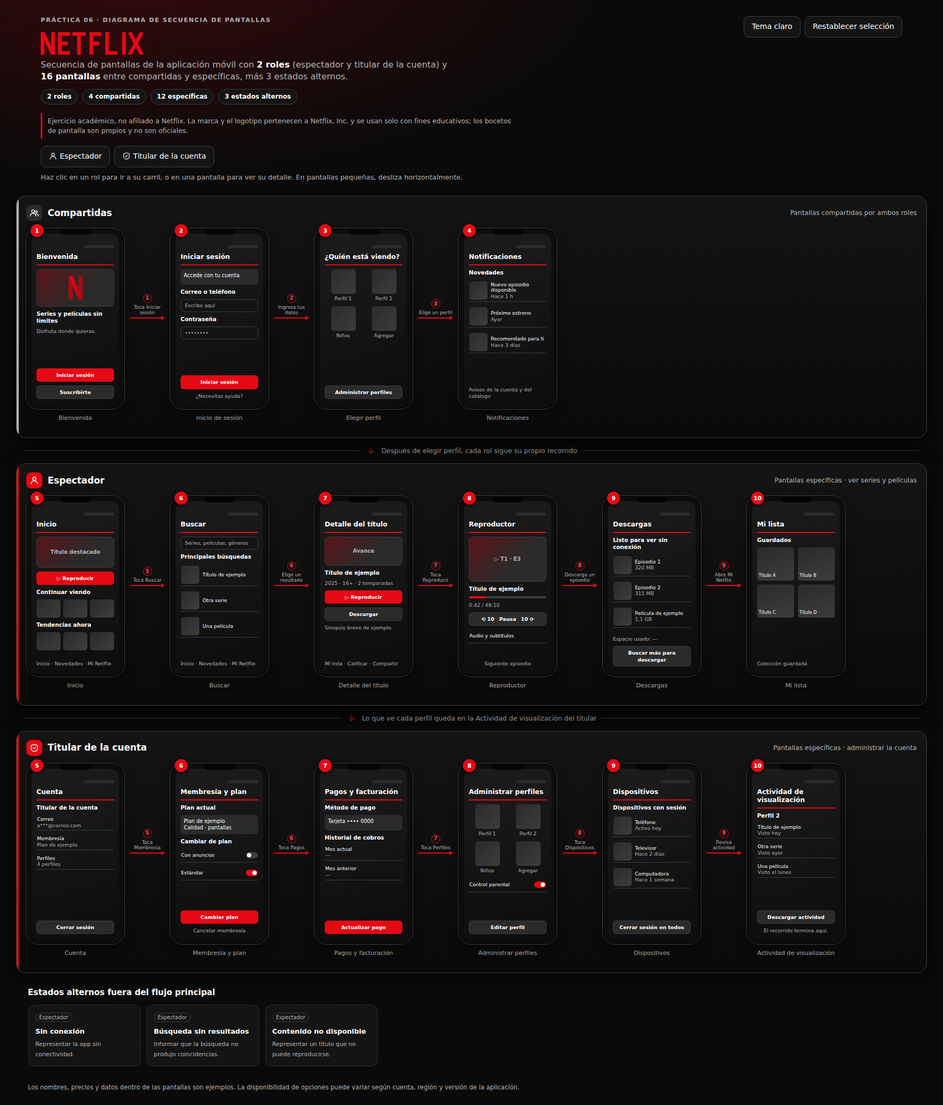
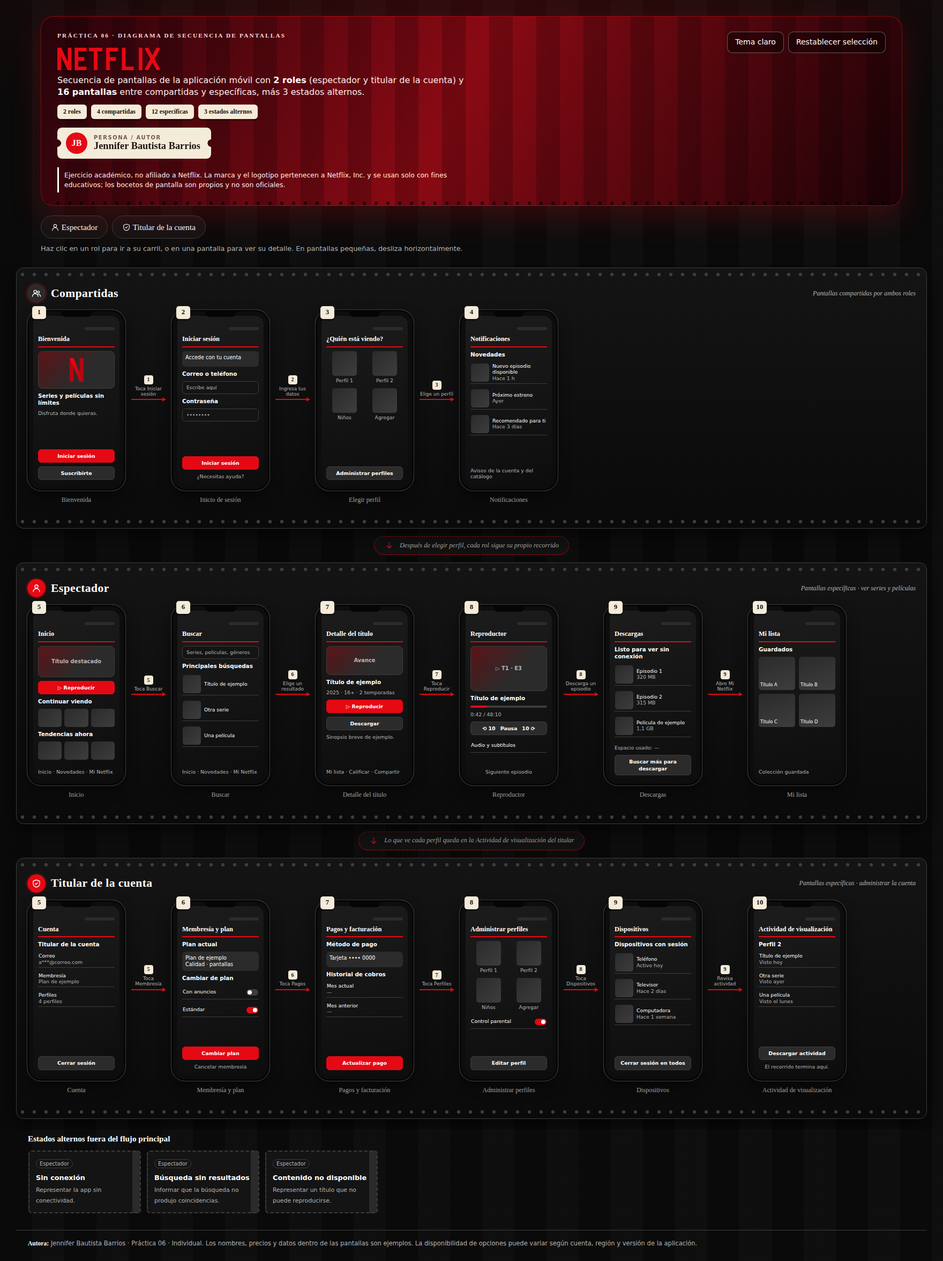
Arreglo de el readme de la practica06

diff --git a/Practica06/netflix-secuencia-pantallas.html b/Practica06/netflix-secuencia-pantallas.html
@@ -47,12 +47,41 @@ button{font:inherit;color:inherit;cursor:pointer;user-select:none}button:focus-v
 .lane.arrived{animation:arr 1s ease-out}@keyframes arr{0%{outline:3px solid var(--accent);box-shadow:0 0 0 8px #E5091433}100%{outline:1px solid transparent}}
 @media(max-width:700px){.head{display:block}.tools{margin-top:13px}.canvas{padding:8px 12px}.panel{height:min(82%,700px);width:100%;border-radius:17px 17px 0 0}.wordmark{height:32px}}
 @media(prefers-reduced-motion:reduce){*,*:before,*:after{scroll-behavior:auto!important;transition:none!important;animation:none!important}}
+
+/* ===== Diseño "cine": cortina, tira de película y boletos ===== */
+:root{--ticket:#F4EBD9;--ticket-ink:#1b1410;--serif:Georgia,"Times New Roman",serif}
+body{background:radial-gradient(1100px 520px at 50% -120px,#E5091433,transparent),repeating-linear-gradient(90deg,#0000 0 60px,#ffffff05 60px 120px),var(--bg)}
+body.light{background:radial-gradient(1100px 520px at 50% -120px,#E5091426,transparent),var(--bg)}
+.hero-head{position:relative;padding:28px 30px 24px;border-radius:24px;overflow:hidden;color:#fff;border:1px solid #E5091488;box-shadow:0 22px 60px #E5091433;
+background:repeating-linear-gradient(90deg,#0000 0 44px,#00000030 44px 88px),linear-gradient(115deg,#26030a,#8a0a14 48%,#1b0307)}
+.hero-head:after{content:"";position:absolute;left:0;right:0;bottom:0;height:8px;background:radial-gradient(circle at 9px 4px,#0009 0 3px,transparent 3.5px) 0 0/22px 8px repeat-x}
+.hero-head .eyebrow{color:#ffd9dc;font-family:var(--serif);letter-spacing:.2em}.hero-head .sub{color:#ffe9ea}.hero-head .sub b{color:#fff}
+.hero-head .chips span{background:var(--ticket);color:var(--ticket-ink);border:0;border-radius:6px;font-family:var(--serif);box-shadow:0 3px 0 #0005}
+.hero-head .tool{background:#00000066;border-color:#ffffff55;color:#fff}.hero-head .tool:hover{background:#000}
+.hero-head .academic{color:#ffe9ea;border-left-color:#fff;max-width:760px}.wordmark{filter:drop-shadow(0 4px 0 #0006)}
+.author{margin-top:16px;display:inline-flex;align-items:center;gap:12px;background:var(--ticket);color:var(--ticket-ink);padding:9px 20px 9px 10px;border-radius:8px;box-shadow:0 4px 0 #0006;position:relative;
+-webkit-mask:radial-gradient(circle 7px at 0 50%,#0000 98%,#000) left/51% 100% no-repeat,radial-gradient(circle 7px at 100% 50%,#0000 98%,#000) right/51% 100% no-repeat;mask:radial-gradient(circle 7px at 0 50%,#0000 98%,#000) left/51% 100% no-repeat,radial-gradient(circle 7px at 100% 50%,#0000 98%,#000) right/51% 100% no-repeat}
+.author .av{width:40px;height:40px;border-radius:50%;background:var(--accent);color:#fff;display:grid;place-items:center;font:700 1rem var(--serif);margin-left:6px}
+.author .who{display:flex;flex-direction:column;line-height:1.15}.author small{font-size:.62rem;letter-spacing:.16em;text-transform:uppercase;color:#6b5b4b;font-weight:700}.author b{font:700 1.15rem var(--serif)}
+.roles{margin-top:18px}.rolebtn{border-radius:99px;font-family:var(--serif);font-size:.95rem;padding:10px 18px}
+.lane{padding:30px 20px 32px;border-radius:14px;background:
+radial-gradient(circle,var(--line) 0 3px,transparent 3.5px) 0 7px/22px 10px repeat-x,
+radial-gradient(circle,var(--line) 0 3px,transparent 3.5px) 0 calc(100% - 7px)/22px 10px repeat-x,
+linear-gradient(180deg,var(--paper),var(--bg))}
+.lane:before{display:none}.lanehead h2{font:700 1.35rem var(--serif);letter-spacing:.02em}.badge{border-radius:50%;width:34px;height:34px;box-shadow:0 0 0 3px var(--glow)}
+.hint{font-family:var(--serif);font-style:italic}.phone{border-width:3px;border-radius:26px;box-shadow:0 10px 24px #0007,0 0 0 1px var(--line)}
+.step{border-radius:5px;width:auto;min-width:26px;padding:0 6px;background:var(--ticket);color:var(--ticket-ink);font-family:var(--serif);font-size:.8rem;box-shadow:0 3px 0 #0006}
+.arrow b{border-radius:4px;border:0;background:var(--ticket);color:var(--ticket-ink);font-family:var(--serif)}
+.caption{font-family:var(--serif);font-size:.76rem}.appbar{font-family:var(--serif)}
+.cross{margin:2px auto;padding:7px 18px;border:1px dashed var(--accent);border-radius:99px;max-width:max-content;background:var(--paper);font-family:var(--serif);font-style:italic}.cross:before,.cross:after{display:none}
+.alternates h2,.panel h2{font-family:var(--serif)}.alt{border-radius:6px;border:2px dashed var(--line);background:linear-gradient(90deg,var(--paper) 0 calc(100% - 14px),var(--fill) 0)}
+.foot{border-top:1px solid var(--line);padding-top:16px}.foot b{color:var(--ink);font-family:var(--serif)}
 </style></head><body>
 <svg width="0" height="0" style="position:absolute" aria-hidden="true"><defs><linearGradient id="g1" x1="0" y1="0" x2="0" y2="1"><stop offset="0" stop-color="#E50914"/><stop offset="1" stop-color="#B20710"/></linearGradient><symbol id="nicon" viewBox="0 0 28 48"><path d="M0 0h8v48H0z" fill="#B20710"/><path d="M20 0h8v48h-8z" fill="#B20710"/><path d="M0 0h8l20 48h-8z" fill="url(#g1)"/></symbol></defs></svg>
 <header class="top"><div class="hero-head"><div class="head"><div><div class="eyebrow">Práctica 06 · Diagrama de secuencia de pantallas</div>
 <h1 class="titleline"><svg class="wordmark" viewBox="0 0 190 40" role="img" aria-label="Netflix"><g fill="none" stroke="#E50914" stroke-width="6.5"><path d="M3.25 40V0M3.25 0L22 40M22 40V0" transform="translate(0 0)" /><path d="M52 3.25H34V36.75H52M34 20H48"/><path d="M56 3.25H80M68 3.25V40"/><path d="M90 40V3.25H108M90 20H104"/><path d="M118 0V36.75H136"/><path d="M148 0V40"/><path d="M158 0L180 40M180 0L158 40"/></g></svg></h1>
 <p class="sub">Secuencia de pantallas de la aplicación móvil con <b>2 roles</b> (espectador y titular de la cuenta) y <b>16 pantallas</b> entre compartidas y específicas, más 3 estados alternos.</p>
-<div class="chips"><span>2 roles</span><span>4 compartidas</span><span>12 específicas</span><span>3 estados alternos</span></div></div>
+<div class="chips"><span>2 roles</span><span>4 compartidas</span><span>12 específicas</span><span>3 estados alternos</span></div><div class="author"><span class="av" aria-hidden="true">JB</span><span class="who"><small>Persona / Autor</small><b>Jennifer Bautista Barrios</b></span></div></div>
 <div class="tools"><button type="button" class="tool" id="theme" aria-pressed="false">Tema claro</button><button type="button" class="tool" id="reset">Restablecer selección</button></div></div>
 <p class="academic">Ejercicio académico, no afiliado a Netflix. La marca y el logotipo pertenecen a Netflix, Inc. y se usan solo con fines educativos; los bocetos de pantalla son propios y no son oficiales.</p></div>
 <div class="roles" role="group" aria-label="Seleccionar recorrido"><button type="button" class="rolebtn" data-role="viewer" aria-pressed="false"><svg viewBox="0 0 24 24"><circle cx="12" cy="8" r="4"/><path d="M4 21a8 8 0 0 1 16 0"/></svg> Espectador</button><button type="button" class="rolebtn" data-role="owner" aria-pressed="false"><svg viewBox="0 0 24 24"><path d="M12 3l8 3v6c0 5-3.5 8-8 9-4.5-1-8-4-8-9V6z"/><path d="M9 12l2 2 4-4"/></svg> Titular de la cuenta</button></div>
@@ -60,7 +89,7 @@ button{font:inherit;color:inherit;cursor:pointer;user-select:none}button:focus-v
 <div id="role-live" class="sr" aria-live="polite" aria-atomic="true"></div>
 <main class="canvas"><div class="lanes"><section class="lane shared" data-lane="shared" aria-labelledby="shared-h"><div class="lanehead"><span class="badge"><svg viewBox="0 0 24 24"><circle cx="9" cy="8" r="3.5"/><circle cx="17" cy="9" r="2.5"/><path d="M2 20a7 7 0 0 1 14 0M15 15a5 5 0 0 1 7 5"/></svg></span><h2 id="shared-h" tabindex="-1">Compartidas</h2><span class="hint">Pantallas compartidas por ambos roles</span></div><div class="flow"><div class="screen-wrap"><button type="button" class="phone" data-screen="s-welcome" aria-label="Pantalla 1: Bienvenida"><span class="step">1</span><span class="notch"></span><span class="screen"><span class="status"></span><span class="appbar">Bienvenida</span><span class="hero" style="height:70px"><svg class="nlogo" viewBox="0 0 28 48" aria-hidden="true"><use href="#nicon"/></svg></span><span class="label">Series y películas sin límites</span><span class="tiny ">Disfruta donde quieras.</span><span class="spacer"></span><span class="buttonmock primary">Iniciar sesión</span><span class="buttonmock">Suscribirte</span></span></button><p class="caption">Bienvenida</p></div><div class="arrow" aria-hidden="true"><b>1</b><small>Toca Iniciar sesión</small><i></i></div><div class="screen-wrap"><button type="button" class="phone" data-screen="s-login" aria-label="Pantalla 2: Iniciar sesión"><span class="step">2</span><span class="notch"></span><span class="screen"><span class="status"></span><span class="appbar">Iniciar sesión</span><span class="block">Accede con tu cuenta</span><span class="label">Correo o teléfono</span><span class="field">Escribe aquí</span><span class="label">Contraseña</span><span class="field">••••••••</span><span class="spacer"></span><span class="buttonmock primary">Iniciar sesión</span><span class="tiny c">¿Necesitas ayuda?</span></span></button><p class="caption">Inicio de sesión</p></div><div class="arrow" aria-hidden="true"><b>2</b><small>Ingresa tus datos</small><i></i></div><div class="screen-wrap"><button type="button" class="phone" data-screen="s-profiles" aria-label="Pantalla 3: ¿Quién está viendo?"><span class="step">3</span><span class="notch"></span><span class="screen"><span class="status"></span><span class="appbar">¿Quién está viendo?</span><span class="grid2"><span class="pf"><span class="cover square"></span>Perfil 1</span><span class="pf"><span class="cover square"></span>Perfil 2</span><span class="pf"><span class="cover square"></span>Niños</span><span class="pf"><span class="cover square"></span>Agregar</span></span><span class="spacer"></span><span class="buttonmock">Administrar perfiles</span></span></button><p class="caption">Elegir perfil</p></div><div class="arrow" aria-hidden="true"><b>3</b><small>Elige un perfil</small><i></i></div><div class="screen-wrap"><button type="button" class="phone" data-screen="s-notif" aria-label="Pantalla 4: Notificaciones"><span class="step">4</span><span class="notch"></span><span class="screen"><span class="status"></span><span class="appbar">Notificaciones</span><span class="label">Novedades</span><span class="row"><span class="cover"></span><span>Nuevo episodio disponible<br><span class="tiny ">Hace 1 h</span></span></span><span class="row"><span class="cover"></span><span>Próximo estreno<br><span class="tiny ">Ayer</span></span></span><span class="row"><span class="cover"></span><span>Recomendado para ti<br><span class="tiny ">Hace 3 días</span></span></span><span class="spacer"></span><span class="tiny ">Avisos de la cuenta y del catálogo</span></span></button><p class="caption">Notificaciones</p></div></div></section><div class="cross"><svg aria-hidden="true" viewBox="0 0 24 24"><path d="M12 4v13M6 12l6 6 6-6"/></svg><span>Después de elegir perfil, cada rol sigue su propio recorrido</span></div><section class="lane viewer" data-lane="viewer" aria-labelledby="viewer-h"><div class="lanehead"><span class="badge"><svg viewBox="0 0 24 24"><circle cx="12" cy="8" r="4"/><path d="M4 21a8 8 0 0 1 16 0"/></svg></span><h2 id="viewer-h" tabindex="-1">Espectador</h2><span class="hint">Pantallas específicas · ver series y películas</span></div><div class="flow"><div class="screen-wrap"><button type="button" class="phone" data-screen="v-home" aria-label="Pantalla 5: Inicio"><span class="step">5</span><span class="notch"></span><span class="screen"><span class="status"></span><span class="appbar">Inicio</span><span class="hero" style="height:58px">Título destacado</span><span class="buttonmock primary">▷ Reproducir</span><span class="label">Continuar viendo</span><span class="thumbs"><i></i><i></i><i></i></span><span class="label">Tendencias ahora</span><span class="thumbs"><i></i><i></i><i></i></span><span class="spacer"></span><span class="tiny ">Inicio · Novedades · Mi Netflix</span></span></button><p class="caption">Inicio</p></div><div class="arrow" aria-hidden="true"><b>5</b><small>Toca Buscar</small><i></i></div><div class="screen-wrap"><button type="button" class="phone" data-screen="v-search" aria-label="Pantalla 6: Buscar"><span class="step">6</span><span class="notch"></span><span class="screen"><span class="status"></span><span class="appbar">Buscar</span><span class="field">Series, películas, géneros</span><span class="label">Principales búsquedas</span><span class="row"><span class="cover"></span><span>Título de ejemplo</span></span><span class="row"><span class="cover"></span><span>Otra serie</span></span><span class="row"><span class="cover"></span><span>Una película</span></span><span class="spacer"></span><span class="tiny ">Inicio · Novedades · Mi Netflix</span></span></button><p class="caption">Buscar</p></div><div class="arrow" aria-hidden="true"><b>6</b><small>Elige un resultado</small><i></i></div><div class="screen-wrap"><button type="button" class="phone" data-screen="v-detail" aria-label="Pantalla 7: Detalle del título"><span class="step">7</span><span class="notch"></span><span class="screen"><span class="status"></span><span class="appbar">Detalle del título</span><span class="hero" style="height:54px">Avance</span><span class="label">Título de ejemplo</span><span class="tiny ">2025 · 16+ · 2 temporadas</span><span class="buttonmock primary">▷ Reproducir</span><span class="buttonmock">Descargar</span><span class="tiny ">Sinopsis breve de ejemplo.</span><span class="spacer"></span><span class="tiny ">Mi lista · Calificar · Compartir</span></span></button><p class="caption">Detalle del título</p></div><div class="arrow" aria-hidden="true"><b>7</b><small>Toca Reproducir</small><i></i></div><div class="screen-wrap"><button type="button" class="phone" data-screen="v-player" aria-label="Pantalla 8: Reproductor"><span class="step">8</span><span class="notch"></span><span class="screen"><span class="status"></span><span class="appbar">Reproductor</span><span class="hero" style="height:84px">▷ T1 · E3</span><span class="label">Título de ejemplo</span><span class="bar"><i></i></span><span class="tiny ">0:42 / 48:10</span><span class="buttonmock">⟲ 10　Pausa　10 ⟳</span><span class="row"><span>Audio y subtítulos</span></span><span class="spacer"></span><span class="tiny c">Siguiente episodio</span></span></button><p class="caption">Reproductor</p></div><div class="arrow" aria-hidden="true"><b>8</b><small>Descarga un episodio</small><i></i></div><div class="screen-wrap"><button type="button" class="phone" data-screen="v-down" aria-label="Pantalla 9: Descargas"><span class="step">9</span><span class="notch"></span><span class="screen"><span class="status"></span><span class="appbar">Descargas</span><span class="label">Listo para ver sin conexión</span><span class="row"><span class="cover"></span><span>Episodio 1<br><span class="tiny ">320 MB</span></span></span><span class="row"><span class="cover"></span><span>Episodio 2<br><span class="tiny ">315 MB</span></span></span><span class="row"><span class="cover"></span><span>Película de ejemplo<br><span class="tiny ">1,1 GB</span></span></span><span class="spacer"></span><span class="tiny ">Espacio usado: —</span><span class="buttonmock">Buscar más para descargar</span></span></button><p class="caption">Descargas</p></div><div class="arrow" aria-hidden="true"><b>9</b><small>Abre Mi Netflix</small><i></i></div><div class="screen-wrap"><button type="button" class="phone" data-screen="v-list" aria-label="Pantalla 10: Mi lista"><span class="step">10</span><span class="notch"></span><span class="screen"><span class="status"></span><span class="appbar">Mi lista</span><span class="label">Guardados</span><span class="grid2"><span class="poster">Título A</span><span class="poster">Título B</span><span class="poster">Título C</span><span class="poster">Título D</span></span><span class="spacer"></span><span class="tiny ">Colección guardada</span></span></button><p class="caption">Mi lista</p></div></div></section><div class="cross"><svg aria-hidden="true" viewBox="0 0 24 24"><path d="M12 4v13M6 12l6 6 6-6"/></svg><span>Lo que ve cada perfil queda en la Actividad de visualización del titular</span></div><section class="lane owner" data-lane="owner" aria-labelledby="owner-h"><div class="lanehead"><span class="badge"><svg viewBox="0 0 24 24"><path d="M12 3l8 3v6c0 5-3.5 8-8 9-4.5-1-8-4-8-9V6z"/><path d="M9 12l2 2 4-4"/></svg></span><h2 id="owner-h" tabindex="-1">Titular de la cuenta</h2><span class="hint">Pantallas específicas · administrar la cuenta</span></div><div class="flow"><div class="screen-wrap"><button type="button" class="phone" data-screen="o-account" aria-label="Pantalla 5: Cuenta"><span class="step">5</span><span class="notch"></span><span class="screen"><span class="status"></span><span class="appbar">Cuenta</span><span class="label">Titular de la cuenta</span><span class="row"><span>Correo<br><span class="tiny ">a***@correo.com</span></span></span><span class="row"><span>Membresía<br><span class="tiny ">Plan de ejemplo</span></span></span><span class="row"><span>Perfiles<br><span class="tiny ">4 perfiles</span></span></span><span class="spacer"></span><span class="buttonmock">Cerrar sesión</span></span></button><p class="caption">Cuenta</p></div><div class="arrow" aria-hidden="true"><b>5</b><small>Toca Membresía</small><i></i></div><div class="screen-wrap"><button type="button" class="phone" data-screen="o-plan" aria-label="Pantalla 6: Membresía y plan"><span class="step">6</span><span class="notch"></span><span class="screen"><span class="status"></span><span class="appbar">Membresía y plan</span><span class="label">Plan actual</span><span class="block">Plan de ejemplo<br>Calidad · pantallas</span><span class="label">Cambiar de plan</span><span class="row">Con anuncios<span class="spacer"></span><span class="tog"></span></span><span class="row">Estándar<span class="spacer"></span><span class="tog on"></span></span><span class="spacer"></span><span class="buttonmock primary">Cambiar plan</span><span class="tiny c">Cancelar membresía</span></span></button><p class="caption">Membresía y plan</p></div><div class="arrow" aria-hidden="true"><b>6</b><small>Toca Pagos</small><i></i></div><div class="screen-wrap"><button type="button" class="phone" data-screen="o-pay" aria-label="Pantalla 7: Pagos y facturación"><span class="step">7</span><span class="notch"></span><span class="screen"><span class="status"></span><span class="appbar">Pagos y facturación</span><span class="label">Método de pago</span><span class="block">Tarjeta •••• 0000</span><span class="label">Historial de cobros</span><span class="row"><span>Mes actual<br><span class="tiny ">—</span></span></span><span class="row"><span>Mes anterior<br><span class="tiny ">—</span></span></span><span class="spacer"></span><span class="buttonmock primary">Actualizar pago</span></span></button><p class="caption">Pagos y facturación</p></div><div class="arrow" aria-hidden="true"><b>7</b><small>Toca Perfiles</small><i></i></div><div class="screen-wrap"><button type="button" class="phone" data-screen="o-manage" aria-label="Pantalla 8: Administrar perfiles"><span class="step">8</span><span class="notch"></span><span class="screen"><span class="status"></span><span class="appbar">Administrar perfiles</span><span class="grid2"><span class="pf"><span class="cover square"></span>Perfil 1</span><span class="pf"><span class="cover square"></span>Perfil 2</span><span class="pf"><span class="cover square"></span>Niños</span><span class="pf"><span class="cover square"></span>Agregar</span></span><span class="row">Control parental<span class="spacer"></span><span class="tog on"></span></span><span class="spacer"></span><span class="buttonmock">Editar perfil</span></span></button><p class="caption">Administrar perfiles</p></div><div class="arrow" aria-hidden="true"><b>8</b><small>Toca Dispositivos</small><i></i></div><div class="screen-wrap"><button type="button" class="phone" data-screen="o-devices" aria-label="Pantalla 9: Dispositivos"><span class="step">9</span><span class="notch"></span><span class="screen"><span class="status"></span><span class="appbar">Dispositivos</span><span class="label">Dispositivos con sesión</span><span class="row"><span class="cover"></span><span>Teléfono<br><span class="tiny ">Activo hoy</span></span></span><span class="row"><span class="cover"></span><span>Televisor<br><span class="tiny ">Hace 2 días</span></span></span><span class="row"><span class="cover"></span><span>Computadora<br><span class="tiny ">Hace 1 semana</span></span></span><span class="spacer"></span><span class="buttonmock">Cerrar sesión en todos</span></span></button><p class="caption">Dispositivos</p></div><div class="arrow" aria-hidden="true"><b>9</b><small>Revisa actividad</small><i></i></div><div class="screen-wrap"><button type="button" class="phone" data-screen="o-activity" aria-label="Pantalla 10: Actividad de visualización"><span class="step">10</span><span class="notch"></span><span class="screen"><span class="status"></span><span class="appbar">Actividad de visualización</span><span class="label">Perfil 2</span><span class="row"><span>Título de ejemplo<br><span class="tiny ">Visto hoy</span></span></span><span class="row"><span>Otra serie<br><span class="tiny ">Visto ayer</span></span></span><span class="row"><span>Una película<br><span class="tiny ">Visto el lunes</span></span></span><span class="spacer"></span><span class="buttonmock">Descargar actividad</span><span class="tiny c">El recorrido termina aquí.</span></span></button><p class="caption">Actividad de visualización</p></div></div></section></div></main>
 <section class="alternates"><h2>Estados alternos fuera del flujo principal</h2><div class="altrow"><button type="button" class="alt" data-screen="x-offline"><span class="tag">Espectador</span><b>Sin conexión</b><small>Representar la app sin conectividad.</small></button><button type="button" class="alt" data-screen="x-no-results"><span class="tag">Espectador</span><b>Búsqueda sin resultados</b><small>Informar que la búsqueda no produjo coincidencias.</small></button><button type="button" class="alt" data-screen="x-unavailable"><span class="tag">Espectador</span><b>Contenido no disponible</b><small>Representar un título que no puede reproducirse.</small></button></div></section>
-<footer class="foot">Los nombres, precios y datos dentro de las pantallas son ejemplos. La disponibilidad de opciones puede variar según cuenta, región y versión de la aplicación.</footer>
+<footer class="foot"><b>Autora:</b> Jennifer Bautista Barrios · Práctica 06 · Individual. Los nombres, precios y datos dentro de las pantallas son ejemplos. La disponibilidad de opciones puede variar según cuenta, región y versión de la aplicación.</footer>
 <div class="overlay" id="overlay" role="dialog" aria-modal="true" aria-labelledby="panel-title"><aside class="panel"><div class="paneltop"><div><div class="eyebrow" id="panel-role"></div><h2 id="panel-title"></h2></div><button type="button" class="close" id="close" aria-label="Cerrar panel">Cerrar</button></div><div id="panel-body"></div></aside></div>
 <script>const details={"s-welcome": ["Compartida", "Bienvenida", "Presentar la app y ofrecer iniciar sesión o suscribirse.", "Logotipo, mensaje de bienvenida y dos botones.", "Toca Iniciar sesión → Inicio de sesión."], "s-login": ["Compartida", "Iniciar sesión", "Autenticar a cualquier persona que use la cuenta.", "Campos de correo o teléfono y contraseña, botón de acceso y ayuda.", "Inicia sesión → Elegir perfil."], "s-profiles": ["Compartida", "¿Quién está viendo?", "Elegir el perfil con el que se usará la app.", "Perfiles de ejemplo, perfil infantil, agregar perfil y administrar perfiles.", "Perfil de espectador → Inicio. Perfil del titular → Cuenta."], "s-notif": ["Compartida", "Notificaciones", "Mostrar avisos de estrenos, recordatorios y de la cuenta.", "Lista de notificaciones con título y fecha.", "Toca un aviso → abre el título o la sección correspondiente."], "v-home": ["Espectador", "Inicio", "Explorar destacados, continuar viendo y ver tendencias.", "Título destacado, filas de contenido y barra inferior.", "Toca Buscar → Buscar."], "v-search": ["Espectador", "Buscar", "Encontrar series, películas o géneros.", "Campo de búsqueda y lista de principales búsquedas.", "Selecciona un resultado → Detalle del título."], "v-detail": ["Espectador", "Detalle del título", "Decidir si reproducir, descargar o guardar un título.", "Avance, datos, sinopsis, reproducir, descargar y acciones.", "Toca Reproducir → Reproductor."], "v-player": ["Espectador", "Reproductor", "Controlar la reproducción de un episodio o película.", "Video, progreso, pausa, saltos de 10 s, audio y subtítulos.", "Toca Descargar en el episodio → Descargas."], "v-down": ["Espectador", "Descargas", "Ver los títulos descargados, incluso sin conexión.", "Lista de descargas con tamaño y botón para buscar más.", "Abre Mi Netflix → Mi lista."], "v-list": ["Espectador", "Mi lista", "Encontrar los títulos que se guardaron.", "Cuadrícula de títulos guardados.", "Selecciona un título → Detalle del título."], "o-account": ["Titular", "Cuenta", "Ver el resumen de la cuenta y entrar a su administración.", "Datos del titular, plan, perfiles y cerrar sesión.", "Toca Membresía → Membresía y plan."], "o-plan": ["Titular", "Membresía y plan", "Consultar o cambiar el plan y la membresía.", "Plan actual, opciones de plan y acciones de cambio o cancelación.", "Toca Pagos → Pagos y facturación."], "o-pay": ["Titular", "Pagos y facturación", "Revisar y actualizar el método de pago y los cobros.", "Método de pago, historial de facturación y botón de actualizar.", "Toca Perfiles → Administrar perfiles."], "o-manage": ["Titular", "Administrar perfiles", "Crear, editar y limitar perfiles, incluido el infantil.", "Perfiles, control parental y edición.", "Toca Dispositivos → Dispositivos."], "o-devices": ["Titular", "Dispositivos", "Ver dónde está iniciada la sesión y cerrarla.", "Lista de dispositivos y cierre de sesión global.", "Toca Actividad → Actividad de visualización."], "o-activity": ["Titular", "Actividad de visualización", "Revisar lo que ha visto cada perfil.", "Lista de títulos vistos por perfil, con fecha.", "El recorrido termina aquí."], "x-offline": ["Espectador", "Sin conexión", "Representar la app sin conectividad.", "Mensaje de estado; solo los títulos descargados siguen disponibles.", "Abre Descargas."], "x-no-results": ["Espectador", "Búsqueda sin resultados", "Informar que la búsqueda no produjo coincidencias.", "Consulta de ejemplo y mensaje sin resultados.", "Edita la búsqueda."], "x-unavailable": ["Espectador", "Contenido no disponible", "Representar un título que no puede reproducirse.", "Mensaje de contenido no disponible.", "Regresa a Buscar o a Mi lista."]};const overlay=document.getElementById('overlay'),title=document.getElementById('panel-title'),body=document.getElementById('panel-body'),roleLabel=document.getElementById('panel-role'),closeBtn=document.getElementById('close');
 const bg=()=>document.querySelectorAll('body > :not(#overlay):not(#role-live):not(script)');let prior=null;

diff --git a/Practica06/README.md b/Practica06/README.md
@@ -1,5 +1,7 @@
 # Práctica 06 – Diagrama de Secuencia de Pantallas (Sketches) de Netflix
 
+**Persona / Autor:** Jennifer Bautista Barrios · Modalidad individual
+
 Diagrama interactivo de **secuencia de pantallas** de la aplicación móvil de **Netflix**, con **2 roles** (espectador y titular de la cuenta) y **16 pantallas** entre compartidas y específicas, más 3 estados alternos. Cada pantalla es clicable y abre un panel con su propósito, sus elementos y la acción siguiente.
 
 **[Ver el diagrama en GitHub Pages](https://jffa25.github.io/Practicas_Integradora_230417/Practica06/netflix-secuencia-pantallas.html)**
@@ -45,6 +47,6 @@ Salida: un HTML autocontenido para GitHub Pages.
 - Logotipo de Netflix, paleta, tema claro/oscuro: sí
 - Se ve bien en celular real y en GitHub Pages: por confirmar al publicar
 
-## Autor
+## Persona / Autor
 
-- **Jose Francisco Flores Amador** / [@JFFA25](https://github.com/JFFA25)
+- **Jennifer Bautista Barrios**
